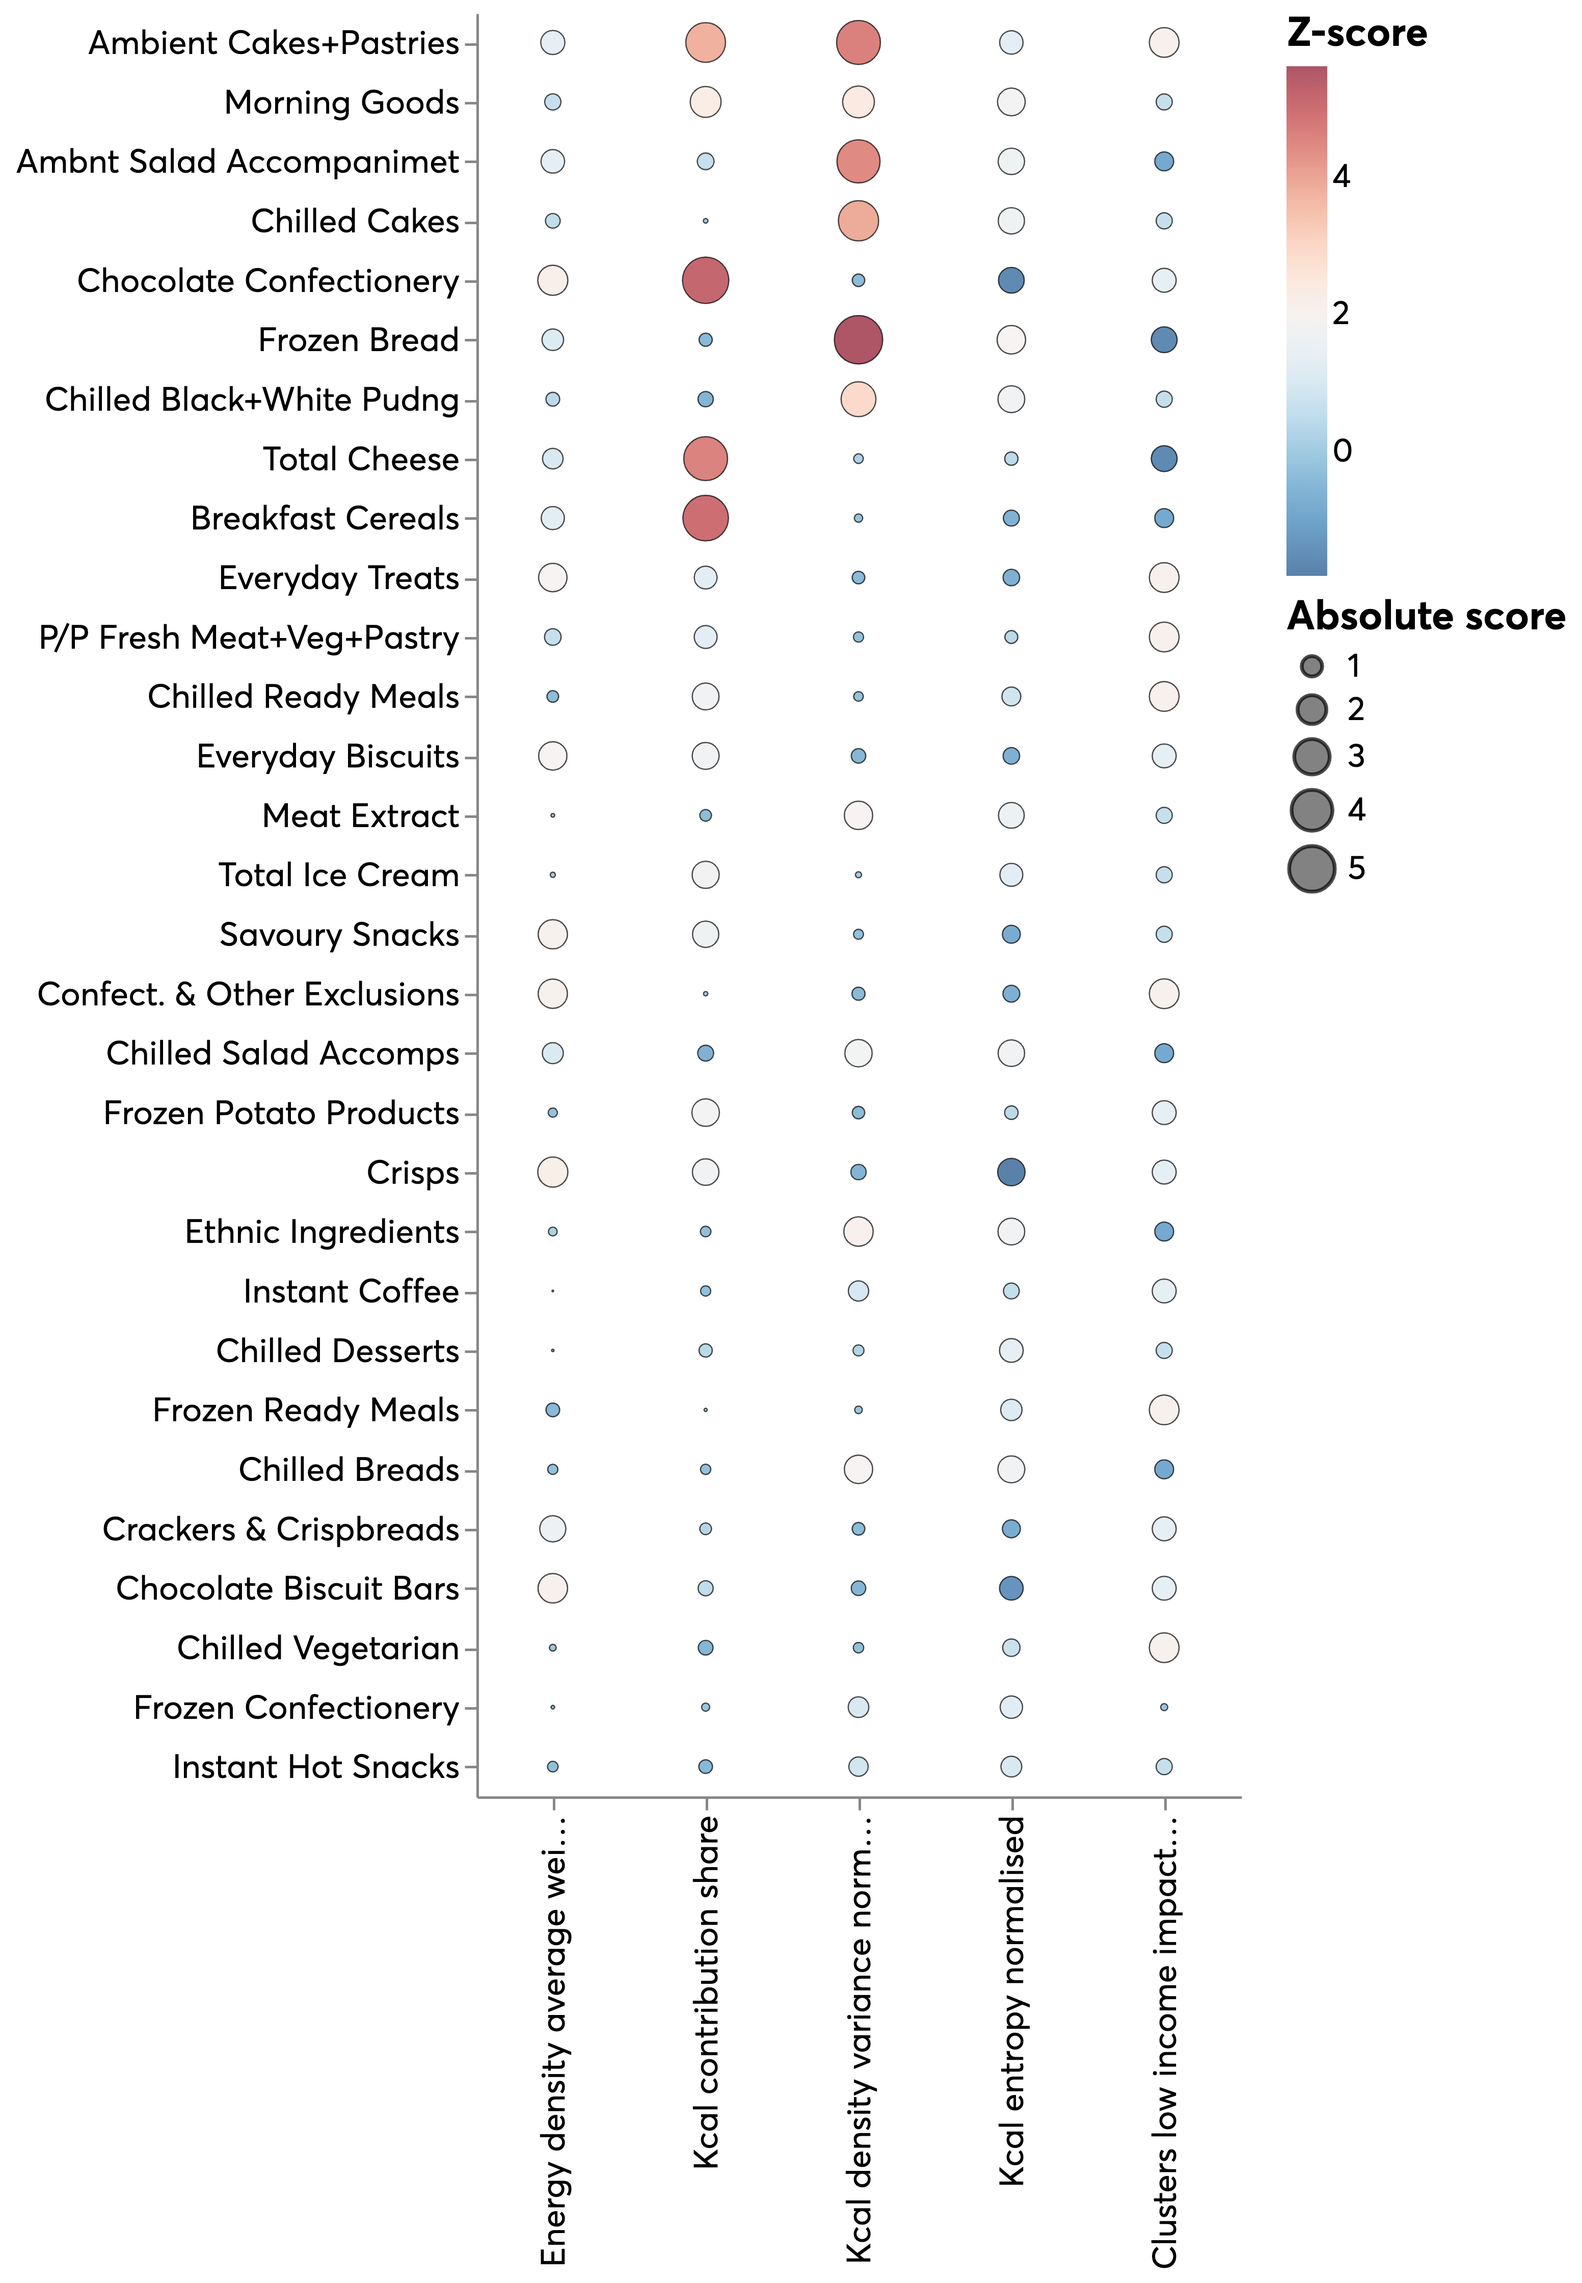
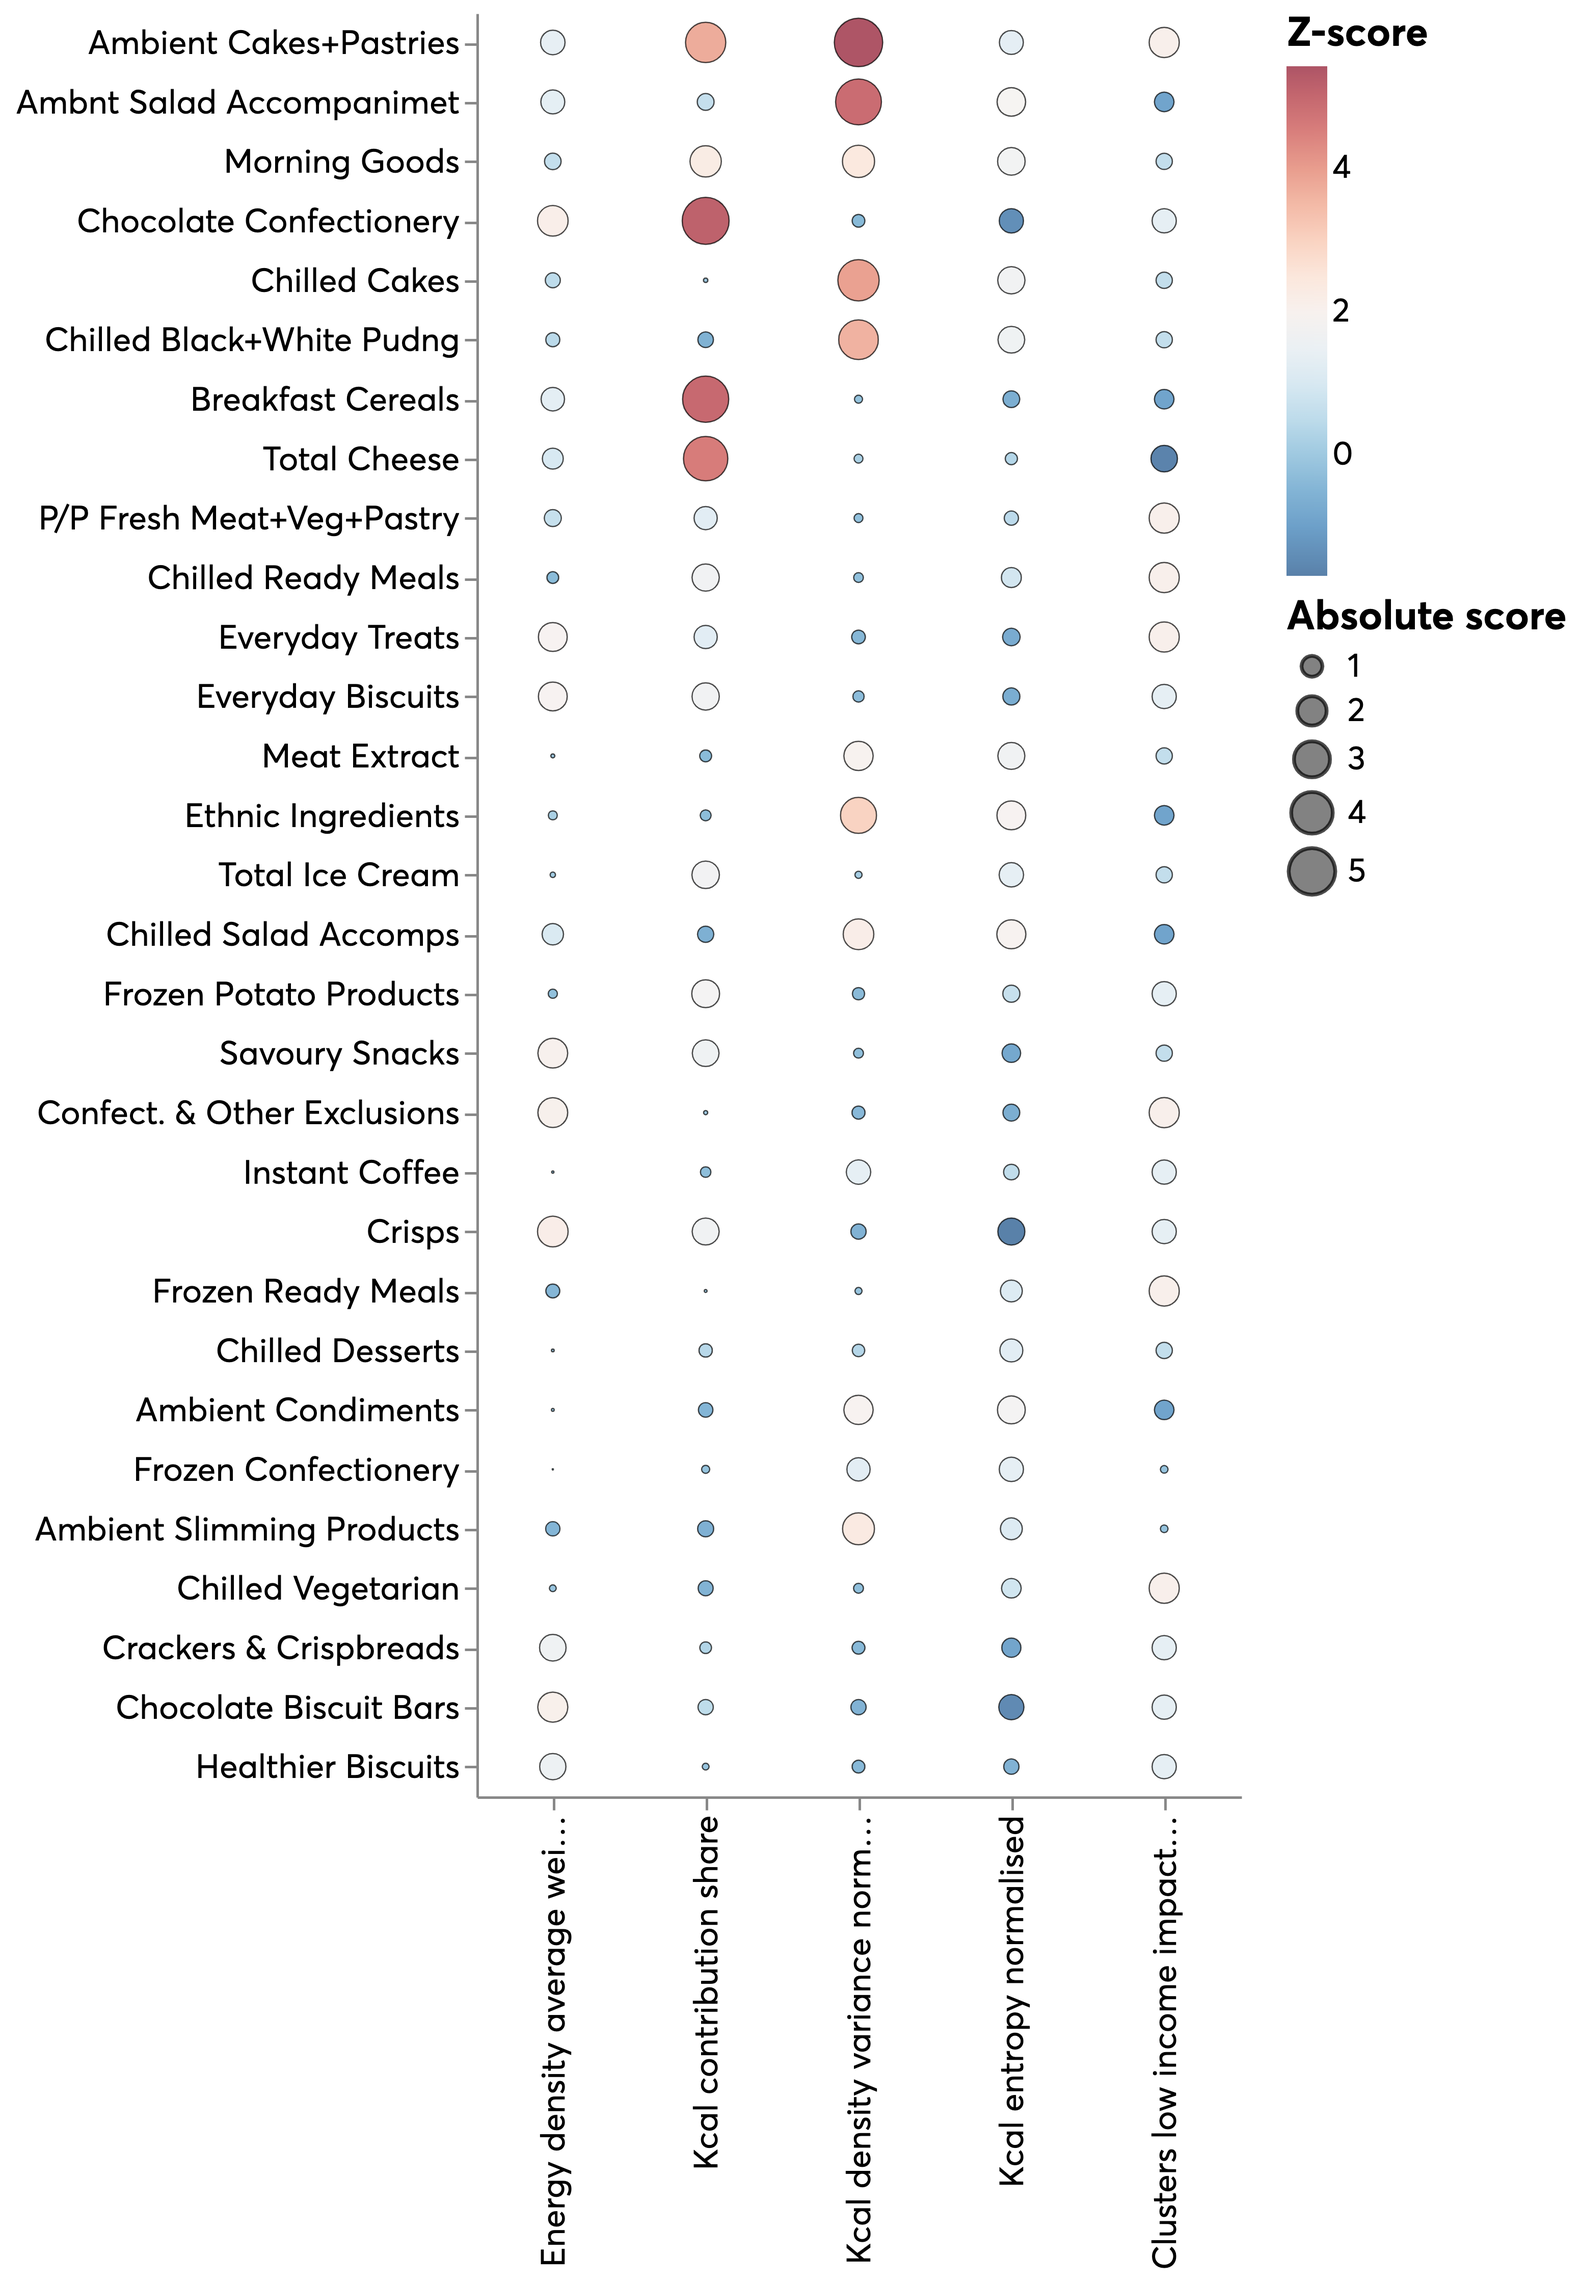
re-running with updated decision tables

diff --git a/ahl_food_reformulation/analysis/impact/impact-kcal-plots.py b/ahl_food_reformulation/analysis/impact/impact-kcal-plots.py
@@ -34,7 +34,7 @@ if __name__ == "__main__":
     kcal_est = kantar.kcal_reduction()
 
     # define cats
-    broader_category = "rst_4_market_sector"
+    broader_category = "rst_4_market"
     granular_category = "rst_4_extended"
 
     # read in shortliested products
@@ -44,7 +44,6 @@ if __name__ == "__main__":
         )
 
     with open(f"{PROJECT_DIR}/outputs/reports/detailed_products_sequential.json") as f:
-        # with open(f"{PROJECT_DIR}/outputs/reports/detailed_products_average.json") as f:
         chosen_cats_seq = pd.DataFrame(json.load(f)).melt(
             var_name=broader_category, value_name=granular_category
         )
